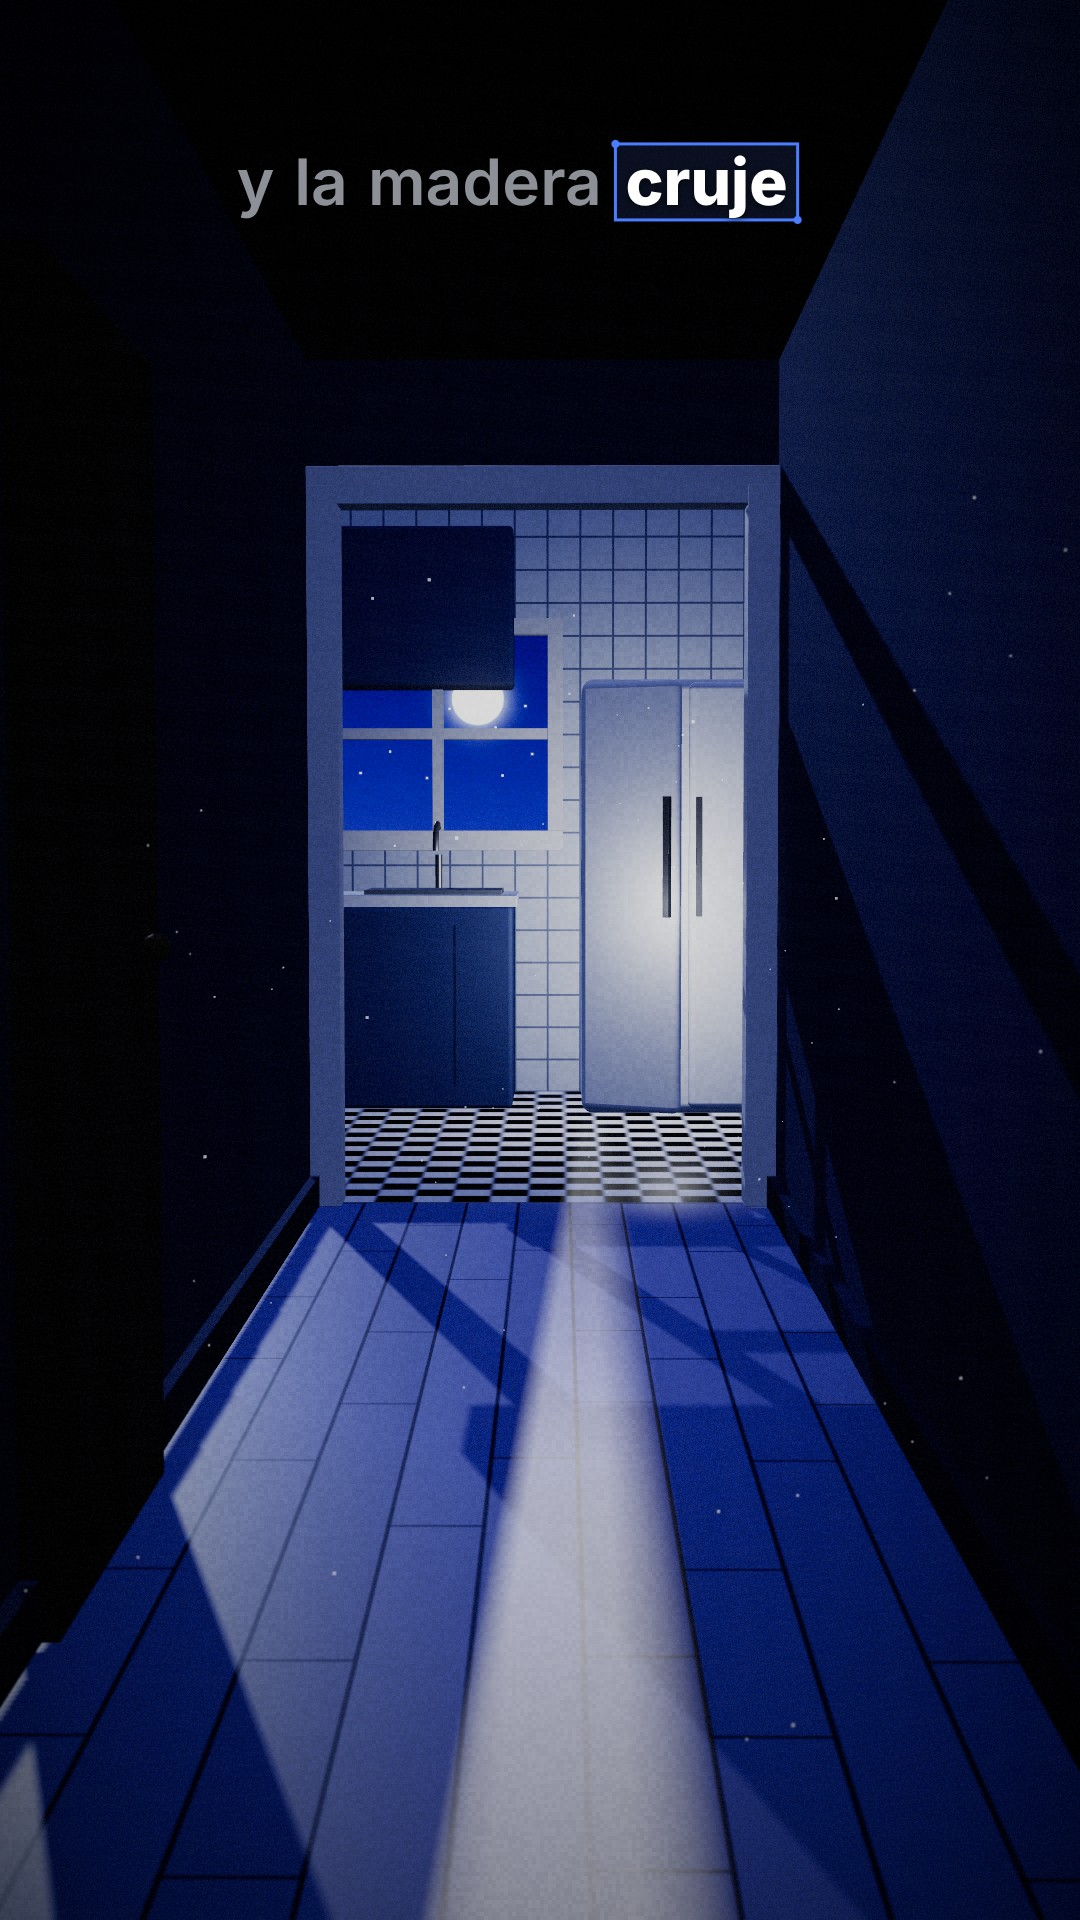
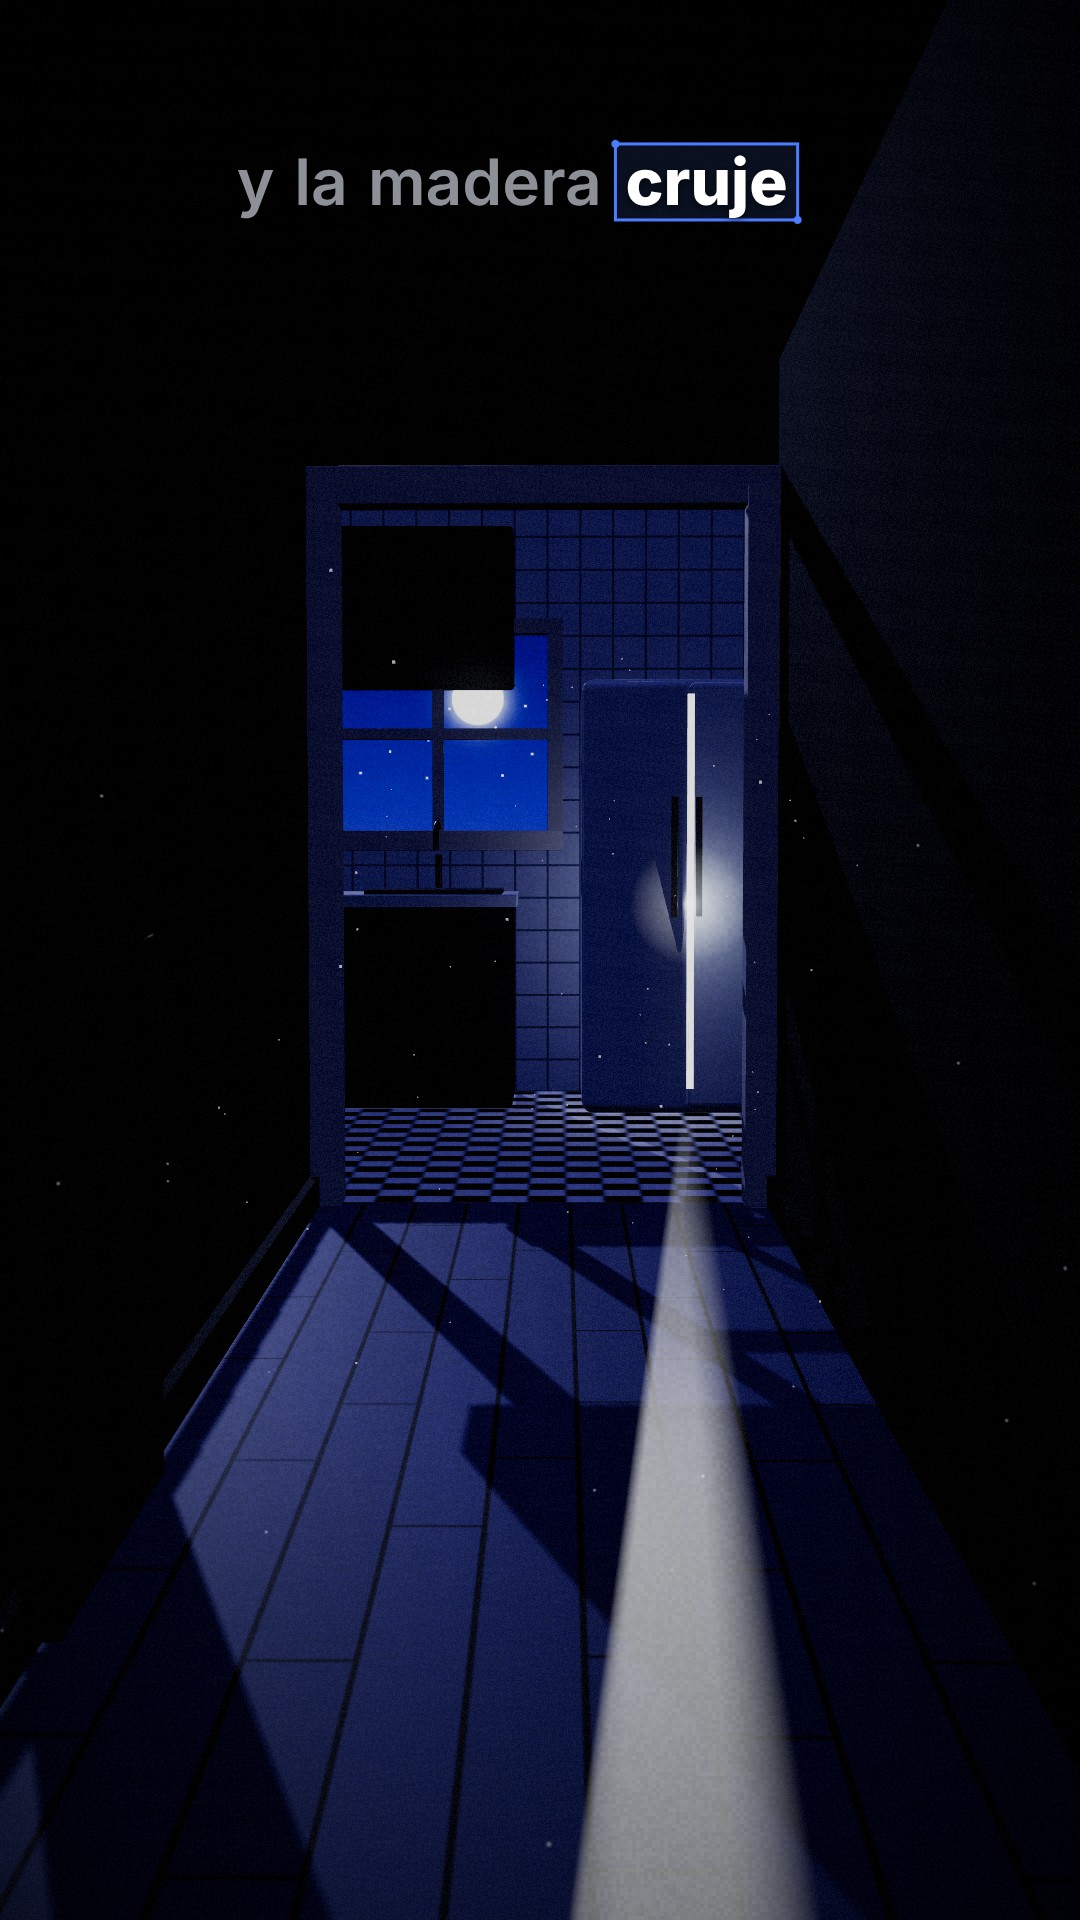
Quédate a oscuras: correcciones de fotogramas (piel, cobija, cielo con niebla, farolas de sodio, perro, rendija del refri)
Claude-Session: https://claude.ai/code/session_01NcqyoPWYYrQVxTVUuo8w3d

diff --git a/videos/historias/quedate-oscuras/scenes/comun.js b/videos/historias/quedate-oscuras/scenes/comun.js
@@ -2,6 +2,7 @@
    Todo es 3D "plastilina": cajas con bisel, colores planos, roughness alto. Se expone como window.Q. */
 (function () {
   const THREE = window.THREE, V = (x, y, z) => new THREE.Vector3(x, y, z);
+  THREE.ColorManagement.legacyMode = false; // los HEX se leen como sRGB (colores fieles a la paleta)
   const P = {
     rojoAmb: 0x7A1218, rojo: 0xE0262B, rojoGlow: 0xFF3B3B, sabana: 0xE89A93,
     noche0: 0x0B0F1C, noche1: 0x0E1424, noche2: 0x1B2440, luna: 0x6F86D6, niebla: 0x2A3350, duela0: 0x3A3F6E, duela1: 0x5A5FA0,
@@ -54,7 +55,7 @@
     const oreja = esfera(.035, piel, [.158, -.01, -.01], [.6, 1, 1]); cab.add(oreja);
     const ojos = [], negro = mat(0x0a0a0e, { roughness: .3 });
     for (const sx of [-1, 1]) { const o = esfera(.019, negro, [sx * .055, .0, .148], [1, 1.15, .45]); cab.add(o); ojos.push(o); }
-    for (const sx of [-1, 1]) { const m = new THREE.Mesh(new THREE.CircleGeometry(.03, 24), new THREE.MeshStandardMaterial({ color: 0xff5a5a, transparent: true, opacity: .45, roughness: .9 })); m.position.set(sx * .085, -.045, .135); m.lookAt(sx * .3, -.2, .6); cab.add(m); }
+    for (const sx of [-1, 1]) { const m = new THREE.Mesh(new THREE.CircleGeometry(.03, 24), new THREE.MeshStandardMaterial({ color: 0xff3a3a, transparent: true, opacity: .75, roughness: .9 })); m.position.set(sx * .085, -.045, .135); m.lookAt(sx * .3, -.2, .6); cab.add(m); }
     const boca = new THREE.Mesh(new THREE.TorusGeometry(.012, .0035, 6, 16, Math.PI), negro); boca.position.set(0, -.07, .148); boca.rotation.z = Math.PI; cab.add(boca);
     g.userData = { cab, ojos, ojo(k) { ojos.forEach(o => o.scale.y = Math.max(.08, 1.15 * k)); } };
     return g;
@@ -140,9 +141,12 @@
     g.add(caja(2.02, .24, 1.42, mat(0xb9a8a4, { roughness: .95 }), [0, .42, 0], { r: .08 }));
     const alm = caja(.5, .17, .95, mat(0xc8b4b0, { roughness: .95 }), [-.76, .62, 0], { r: .08, seg: 5 }); g.add(alm);
     // cobija acolchada inflada: una caja grande + "costuras" de cajas redondeadas encimadas
-    const cob = new THREE.Group(); g.add(cob); const mc = mat(0xb86a66, { roughness: .95 });
-    cob.add(caja(1.5, .2, 1.48, mc, [.27, .6, 0], { r: .09, seg: 5 }));
-    for (let i = 0; i < 4; i++) for (let j = 0; j < 3; j++) cob.add(caja(.35, .07, .46, mc, [-.18 + i * .36, .7, -.48 + j * .48], { r: .034, seg: 4 }));
+    const cob = new THREE.Group(); g.add(cob); const mc = mat(P.sabana, { roughness: .95 });
+    cob.add(caja(1.56, .26, 1.5, mc, [.25, .6, 0], { r: .13, seg: 6 }));
+    // pliegues: rollos alargados y suaves sobre la cobija (no cuadrícula)
+    [[.2, .12, 1.36, .45], [.55, -.06, 1.3, .36], [.85, .08, 1.2, .3]].forEach(([x, rz, largo, gr]) => { const pl = new THREE.Mesh(new THREE.CapsuleGeometry(.07 * gr / .38, largo, 8, 24), mc); pl.rotation.set(Math.PI / 2, 0, rz); pl.scale.set(1.6, 1, .55); pl.position.set(x, .72, 0); pl.castShadow = pl.receiveShadow = true; cob.add(pl); });
+    // borde doblado junto al cuello
+    const dob = new THREE.Mesh(new THREE.CapsuleGeometry(.075, 1.34, 8, 24), mat(0xF0B5AE, { roughness: .95 })); dob.rotation.x = Math.PI / 2; dob.scale.set(1.5, 1, .8); dob.position.set(-.5, .7, 0); dob.castShadow = dob.receiveShadow = true; cob.add(dob);
     g.userData = { cob, alm }; return g; }
   function ventanaCruz(o = {}) { const g = new THREE.Group(), w = o.w || 1.1, h = o.h || 1.3, mm = mat(P.hueso, { roughness: .7 }), t = .07;
     g.add(caja(w + t * 2, t, .12, mm, [0, h / 2 + t / 2, 0])); g.add(caja(w + t * 2, t * 1.3, .2, mm, [0, -h / 2 - t / 2, .04])); g.add(caja(t, h, .12, mm, [-w / 2 - t / 2, 0, 0])); g.add(caja(t, h, .12, mm, [w / 2 + t / 2, 0, 0]));
@@ -204,13 +208,13 @@
   function farola(o = {}) { const g = new THREE.Group(), negro = mat(0x0b0b0e, { roughness: .5, metalness: .4 }), h = o.h || 5;
     g.add(cil(.07, .1, h, negro, [0, h / 2, 0], 12)); const brazo = caja(.9, .07, .07, negro, [o.lado * .45, h - .05, 0]); g.add(brazo);
     const cab = caja(.45, .14, .28, negro, [o.lado * .85, h - .1, 0], { r: .05 }); g.add(cab);
-    const foco = new THREE.Mesh(new THREE.PlaneGeometry(.36, .2), brilla(P.sodio, 4, { side: THREE.DoubleSide })); foco.rotation.x = Math.PI / 2; foco.position.set(o.lado * .85, h - .175, 0); g.add(foco);
-    const hal = halo(P.sodio, 3.2, .55, [o.lado * .85, h - .3, 0]); g.add(hal);
-    const cono = conoLuz(P.sodio, h - .2, 1.9, .07); cono.position.set(o.lado * .85, h - .18, 0); g.add(cono);
+    const foco = new THREE.Mesh(new THREE.PlaneGeometry(.36, .2), brilla(P.sodio, 2.2, { side: THREE.DoubleSide })); foco.rotation.x = Math.PI / 2; foco.position.set(o.lado * .85, h - .175, 0); g.add(foco);
+    const hal = halo(P.sodio, 3.0, .38, [o.lado * .85, h - .3, 0]); g.add(hal);
+    const cono = conoLuz(P.sodio, h - .2, 1.9, .09); cono.position.set(o.lado * .85, h - .18, 0); g.add(cono);
     const sl = new THREE.SpotLight(P.sodio, o.i || 9, 14, .78, .65, 1.6); sl.position.set(o.lado * .85, h - .2, 0); sl.target.position.set(o.lado * .85, 0, 0); g.add(sl, sl.target);
-    g.userData = { foco, hal, cono, sl, k(v) { foco.material.color.set(P.sodio).multiplyScalar(4 * v); hal.material.opacity = .55 * v; cono.material.opacity = .07 * v; sl.intensity = (o.i || 9) * v; } };
+    g.userData = { foco, hal, cono, sl, k(v) { foco.material.color.set(P.sodio).multiplyScalar(2.2 * v); hal.material.opacity = .38 * v; cono.material.opacity = .09 * v; sl.intensity = (o.i || 9) * v; } };
     return g; }
-  function perro() { const g = new THREE.Group(), m = mat(0x4a3022, { roughness: .85 }), osc = mat(0x2e1d14, { roughness: .85 });
+  function perro() { const g = new THREE.Group(), m = mat(0x4a2c1c, { roughness: .85 }), osc = mat(0x2a180e, { roughness: .85 });
     const cuerpo = new THREE.Group(); g.add(cuerpo); cuerpo.add(caja(.32, .3, .7, m, [0, .5, 0], { r: .13, seg: 4 }));
     const patas = []; for (const [x, z] of [[-.1, .24], [.1, .24], [-.1, -.24], [.1, -.24]]) { const p = caja(.09, .4, .1, m, [x, .2, z], { r: .04 }); cuerpo.add(p); patas.push(p); }
     const cola = caja(.06, .06, .3, m, [0, .66, -.42], { r: .03, rot: [-.7, 0, 0] }); cuerpo.add(cola);
@@ -236,12 +240,12 @@
 
   // =============== PASILLO + COCINA ===============
   const texDuela = (k = 1) => { const t = textura(512, 1024, (x, w, h) => { x.fillStyle = '#ffffff'; x.fillRect(0, 0, w, h); const n = 6, aw = w / n; for (let i = 0; i < n; i++) { const off = (i * 397) % 600; x.fillStyle = `rgba(0,0,0,${.03 + (i % 3) * .025})`; x.fillRect(i * aw, 0, aw, h);
-      x.fillStyle = 'rgba(10,10,30,.55)'; x.fillRect(i * aw, 0, 4, h); for (let y = off % 700; y < h; y += 700) x.fillRect(i * aw, y, aw, 4); } }); t.wrapS = t.wrapT = THREE.RepeatWrapping; return t; };
+      x.fillStyle = 'rgba(6,6,18,.9)'; x.fillRect(i * aw, 0, 5, h); for (let y = off % 700; y < h; y += 700) x.fillRect(i * aw, y, aw, 5); } }); t.wrapS = t.wrapT = THREE.RepeatWrapping; return t; };
   const texAzulejo = () => { const t = textura(256, 256, (x, w, h) => { x.fillStyle = '#e9edf2'; x.fillRect(0, 0, w, h); x.fillStyle = '#9aa3b4'; for (let i = 0; i <= 4; i++) { x.fillRect(i * 64 - 2, 0, 4, h); x.fillRect(0, i * 64 - 2, w, 4); } }); t.wrapS = t.wrapT = THREE.RepeatWrapping; return t; };
   const texAjedrez = () => { const t = textura(256, 256, (x) => { for (let i = 0; i < 4; i++) for (let j = 0; j < 4; j++) { x.fillStyle = (i + j) % 2 ? '#15161c' : '#e8e8ec'; x.fillRect(i * 64, j * 64, 64, 64); } }); t.wrapS = t.wrapT = THREE.RepeatWrapping; t.magFilter = THREE.NearestFilter; return t; };
   /* Pasillo a lo largo de -z: desde la puerta de la recámara (z=+3) hasta la cocina (z<-3). Refri al fondo a la derecha, mirando +z, puerta izquierda entreabierta. */
   function pasillo(o = {}) {
-    const g = new THREE.Group(), AW = 1.5, LZ0 = 3.2, LZ1 = -3.0, pared = mat(0x161c33, { roughness: .9 }), madera = mat(0x5a5fa0, { roughness: .45, metalness: .0 });
+    const g = new THREE.Group(), AW = 1.5, LZ0 = 3.2, LZ1 = -3.0, pared = mat(0x161c33, { roughness: .9 }), madera = mat(0x7d7f9c, { roughness: .65, metalness: .0 });
     const td = texDuela(); td.repeat.set(1.5, 3); madera.map = td;
     const piso = new THREE.Mesh(new THREE.PlaneGeometry(AW, LZ0 - LZ1), madera); piso.rotation.x = -Math.PI / 2; piso.position.z = (LZ0 + LZ1) / 2; piso.receiveShadow = true; g.add(piso);
     for (const s of [-1, 1]) { const p = new THREE.Mesh(new THREE.PlaneGeometry(LZ0 - LZ1, 2.7), pared); p.rotation.y = -s * Math.PI / 2; p.position.set(s * AW / 2, 1.35, (LZ0 + LZ1) / 2); p.receiveShadow = true; g.add(p);
@@ -275,18 +279,19 @@
     const rf = new THREE.Group(); rf.position.set(.6, 0, LZ1 - KD + .45); g.add(rf); const blanco = mat(0xd6dbe3, { roughness: .4 });
     rf.add(caja(.9, 1.85, .7, blanco, [0, .925, 0], { r: .05 })); const interior = new THREE.Mesh(new THREE.PlaneGeometry(.84, 1.7), brilla(P.refri, 2.6)); interior.position.set(0, .95, .3); rf.add(interior);
     const pD = caja(.44, 1.8, .07, blanco, [.22, .93, .385], { r: .03 }); rf.add(pD); rf.add(caja(.025, .5, .04, metal, [.04, 1.1, .44]));
-    const piv = new THREE.Group(); piv.position.set(-.44, 0, .37); rf.add(piv); const pI = caja(.44, 1.8, .07, blanco, [.22, .93, .015], { r: .03 }); piv.add(pI); piv.add(caja(.025, .5, .04, metal, [.4, 1.1, .065])); piv.rotation.y = -.42;
+    const piv = new THREE.Group(); piv.position.set(-.44, 0, .37); rf.add(piv); const pI = caja(.44, 1.8, .07, blanco, [.22, .93, .015], { r: .03 }); piv.add(pI); piv.add(caja(.025, .5, .04, metal, [.4, 1.1, .065])); piv.rotation.y = -.23;
     const sl = new THREE.SpotLight(P.refri, 0, 10, .085, .6, 1.2); sl.position.set(-.38, .95, .5); sl.target.position.set(-.75, 0, 6.5); luzSombra(sl, 1024); rf.add(sl, sl.target);
-    const pl2 = new THREE.PointLight(P.refri, 1.6, 2.5, 2); pl2.position.set(-.1, .9, .7); rf.add(pl2);
+    const rend = new THREE.Mesh(new THREE.PlaneGeometry(.03, 1.66), brilla(P.refri, 3.2)); rend.position.set(.005, .95, .44); rf.add(rend); rf.add(halo(P.refri, .5, .5, [.0, .9, .5]));
+    const pl2 = new THREE.PointLight(P.refri, .9, 1.6, 2); pl2.position.set(.0, .9, .5); rf.add(pl2);
     // franja de luz sobre el piso (trapecio con degradado), del refri hacia la cámara
     const texF = textura(64, 512, (x, w, h) => { const gg = x.createLinearGradient(0, 0, 0, h); gg.addColorStop(0, 'rgba(255,255,255,0)'); gg.addColorStop(.5, 'rgba(255,255,255,.35)'); gg.addColorStop(1, 'rgba(255,255,255,1)'); x.fillStyle = gg; x.fillRect(0, 0, w, h);
       const s = x.createLinearGradient(0, 0, w, 0); s.addColorStop(0, 'rgba(0,0,0,1)'); s.addColorStop(.3, 'rgba(0,0,0,0)'); s.addColorStop(.7, 'rgba(0,0,0,0)'); s.addColorStop(1, 'rgba(0,0,0,1)'); x.globalCompositeOperation = 'destination-out'; x.fillStyle = s; x.fillRect(0, 0, w, h); });
-    const fg = new THREE.BufferGeometry(); const zA = LZ1 - KD + .9, zB = LZ0 - .2, xA = .6 - .44 + .02, xB = .05;
-    fg.setAttribute('position', new THREE.Float32BufferAttribute([xA - .06, .006, zA, xA + .1, .006, zA, xB - .2, .006, zB, xB + .2, .006, zB], 3)); fg.setAttribute('uv', new THREE.Float32BufferAttribute([0, 1, 1, 1, 0, 0, 1, 0], 2)); fg.setIndex([0, 2, 1, 1, 2, 3]);
+    const fg = new THREE.BufferGeometry(); const zA = LZ1 - KD + .86, zB = LZ0 - .2, xA = .6, xB = .12;
+    fg.setAttribute('position', new THREE.Float32BufferAttribute([xA - .04, .006, zA, xA + .04, .006, zA, xB - .16, .006, zB, xB + .16, .006, zB], 3)); fg.setAttribute('uv', new THREE.Float32BufferAttribute([0, 1, 1, 1, 0, 0, 1, 0], 2)); fg.setIndex([0, 2, 1, 1, 2, 3]);
     const franja = new THREE.Mesh(fg, new THREE.MeshBasicMaterial({ color: new THREE.Color(P.refri).multiplyScalar(1.8), map: texF, transparent: true, opacity: .9, blending: THREE.AdditiveBlending, depthWrite: false, fog: false })); g.add(franja);
     // luz de luna rasante desde la ventana de la cocina
-    const luna = new THREE.DirectionalLight(P.luna, .38); luna.position.set(-2.5, 3.2, LZ1 - KD - 2); luna.target.position.set(.3, 0, 1.5); luzSombra(luna, 2048, 5); g.add(luna, luna.target);
-    const amb = new THREE.HemisphereLight(0x2a3570, 0x0b0f1c, .9); g.add(amb);
+    const luna = new THREE.DirectionalLight(0xa3abd0, .5); luna.position.set(-2.5, 3.2, LZ1 - KD - 2); luna.target.position.set(.3, 0, 1.5); luzSombra(luna, 2048, 5); g.add(luna, luna.target);
+    const amb = new THREE.HemisphereLight(0x5a5f90, 0x1a1d33, .9); g.add(amb);
     // marco de la puerta de la recámara (primer plano) y la puerta abierta con manija dorada
     g.add(caja(.12, 2.4, .16, hueso, [-AW / 2 + .02, 1.2, LZ0])); g.add(caja(.12, 2.4, .16, hueso, [AW / 2 - .02, 1.2, LZ0])); g.add(caja(AW + .1, .12, .16, hueso, [0, 2.4, LZ0]));
     const pu = new THREE.Group(); pu.position.set(-AW / 2 + .06, 0, LZ0 + .05); g.add(pu); pu.add(caja(.85, 2.25, .05, mat(0x2A1E18, { roughness: .6 }), [-.43, 1.13, 0])); pu.rotation.y = 1.25;

diff --git a/videos/historias/quedate-oscuras/scenes/escenas.js b/videos/historias/quedate-oscuras/scenes/escenas.js
@@ -7,9 +7,9 @@
 
   // ---------- luz roja de alerta para la recámara ----------
   function luzRoja(Q, s, k = 1) {
-    const hemi = new THREE.HemisphereLight(0xff3b3b, 0x1a0204, .18 * k); s.add(hemi);
-    const amb = new THREE.AmbientLight(Q.P.rojoAmb, .35 * k); s.add(amb);
-    const vent = new THREE.SpotLight(Q.P.rojo, 3.2 * k, 9, .9, .8, 1.4); vent.position.set(.9, 2.2, -2.2); vent.target.position.set(-.6, .5, .4); Q.luzSombra(vent, 2048); s.add(vent, vent.target);
+    const hemi = new THREE.HemisphereLight(0xffa49a, 0x2a0608, .2 * k); s.add(hemi);
+    const amb = new THREE.AmbientLight(Q.P.rojoAmb, .2 * k); s.add(amb);
+    const vent = new THREE.SpotLight(0xff6a5c, 1.5 * k, 9, .9, .8, 1.4); vent.position.set(.9, 2.2, -2.2); vent.target.position.set(-.6, .5, .4); Q.luzSombra(vent, 2048); s.add(vent, vent.target);
     return { hemi, amb, vent };
   }
 
@@ -17,37 +17,41 @@
   S[0] = (Q) => {
     const s = Q.escena({ fondo: 0x1a0306, niebla: .015, nieblaColor: 0x3a0a0e });
     const rc = Q.recamara({ pared: 0x3a0d12 }); s.add(rc); const L = luzRoja(Q, s);
-    const yo = Q.personaje(); yo.position.set(-.93, .83, -.1); yo.rotation.set(0, .3, 1.5); s.add(yo);
-    const cel = Q.celular({ luz: 2.2 }); cel.scale.setScalar(1.5); cel.position.set(-.38, .75, .14); cel.rotation.set(-Math.PI / 2 + .12, 0, -.5); s.add(cel);
+    const yo = Q.personaje(); yo.position.set(-.93, .83, -.1); yo.rotation.set(0, 1.0, 1.3); s.add(yo);
+    const cel = Q.celular({ luz: 1.0, color: 0xff5a4c, brillo: 2.1 }); cel.scale.setScalar(1.5); cel.rotation.set(-Math.PI / 2 + .1, 0, 0); const celG = new THREE.Group(); celG.add(cel); celG.position.set(-.42, .752, .1); celG.rotation.y = Math.PI / 2 - .55; s.add(celG);
     const pol = Q.polvo(160, [3, 2.4, 2.5], 0xff9a9a, .01); pol.position.set(-.5, .3, 0); s.add(pol);
     return { scene: s,
-      cam: [[.7, 1.62, .78], [-.7, .76, -.04], 36], cam2: [[.4, 1.45, .6], [-.68, .77, -.02], 36],
-      anima(tl, tg) { cel.userData.pinta(x => Q.pantallaA(x, tl)); const vib = (Math.floor(tl * 4) % 2 === 0) ? 1 : 0; cel.position.x = -.42 + Math.sin(tl * 2 * Math.PI * 20) * .002 * vib; cel.position.z = .12 + Math.cos(tl * 2 * Math.PI * 20) * .0015 * vib;
+      cam: [[.55, 1.9, .9], [-.8, .86, -.06], 36], cam2: [[.2, 1.6, .62], [-.7, .86, -.02], 36],
+      anima(tl, tg) { cel.userData.pinta(x => Q.pantallaA(x, tl)); const vib = (Math.floor(tl * 4) % 2 === 0) ? 1 : 0; cel.position.x = Math.sin(tl * 2 * Math.PI * 20) * .002 * vib; cel.position.z = Math.cos(tl * 2 * Math.PI * 20) * .0015 * vib;
         // parpadeo lento al abrir los ojos (6 cuadros) cerca de 1.2 s
         const a = clamp((tl - 1.1) / .2); yo.userData.ojo(tl < 1.1 ? .08 : a); Q.moverPolvo(pol, tg); },
-      post: { ap: .05, bloom: 1.0 }, ca: .0015,
+      post: { ap: .05, bloom: 1.25, umbral: .7 }, ca: .0015,
       sacudida: (tl) => tl < 4 / 30 ? 1 : 0 };
   };
 
   // ===== ESCENA 7 — La ciudad muerta =====
   function calleNoche(Q, o = {}) {
-    const s = Q.escena({ fondo: 0x0d1222, niebla: o.niebla || .045, nieblaColor: 0x1c2340 });
+    const NB = o.nieblaColor || 0x2A3350, s = Q.escena({ fondo: NB, niebla: o.niebla || .03, nieblaColor: NB });
     const c = Q.calle({ semilla: 11 }); s.add(c);
-    const luna = new THREE.DirectionalLight(Q.P.luna, .3); luna.position.set(-20, 40, -30); s.add(luna);
-    s.add(new THREE.HemisphereLight(0x3a4a8a, 0x0b0f1c, .12));
-    const cg = Q.textura(4, 256, (x, w, h) => { const g = x.createLinearGradient(0, 0, 0, h); g.addColorStop(0, '#0e1328'); g.addColorStop(.55, '#1a2140'); g.addColorStop(1, '#262f52'); x.fillStyle = g; x.fillRect(0, 0, w, h); }); cg.encoding = THREE.LinearEncoding; s.background = cg;
+    // domo de cielo que SÍ recibe niebla: #2A3350 en el horizonte → #0B0F1C arriba
+    const dg = new THREE.SphereGeometry(60, 32, 16), col = [], cH = new THREE.Color(o.horizonte || 0x2A3350), cT = new THREE.Color(o.cenit || 0x0B0F1C);
+    for (let i = 0; i < dg.attributes.position.count; i++) { const y = dg.attributes.position.getY(i) / 60; const cc = cH.clone().lerp(cT, Math.min(1, Math.max(0, y * 1.6))); col.push(cc.r, cc.g, cc.b); }
+    dg.setAttribute('color', new THREE.Float32BufferAttribute(col, 3)); const domo = new THREE.Mesh(dg, new THREE.MeshBasicMaterial({ vertexColors: true, side: THREE.BackSide, fog: true, depthWrite: false, depthTest: false }));
+    domo.renderOrder = -10; domo.position.set(0, 0, -10); s.add(domo);
+    const luna = new THREE.DirectionalLight(Q.P.luna, .5); luna.position.set(-20, 40, -30); s.add(luna);
+    s.add(new THREE.HemisphereLight(0x3a4a8a, 0x0b0f1c, .25));
     // ventanas: unas cálidas con cortina, unas azules de TV, la mayoría negras
-    const cal = new THREE.Color(Q.P.ventCalida).multiplyScalar(2.2), cal2 = new THREE.Color(Q.P.ventCalida2).multiplyScalar(1.6), tv = new THREE.Color(0x7D8FD0).multiplyScalar(1.5);
+    const cal = new THREE.Color(Q.P.ventCalida).multiplyScalar(1.6), cal2 = new THREE.Color(Q.P.ventCalida2).multiplyScalar(1.2), tv = new THREE.Color(0x7D8FD0).multiplyScalar(1.1);
     let sem = 5; const r = () => { sem = (sem * 16807) % 2147483647; return sem / 2147483647; };
-    for (const h of [c.userData.L, c.userData.R]) h.userData.ventanas.forEach(v => { const q = r(); if (q < .09) Q.colorVentana(h, v.i, cal); else if (q < .13) Q.colorVentana(h, v.i, cal2); else if (q < .17) Q.colorVentana(h, v.i, tv); });
+    for (const h of [c.userData.L, c.userData.R]) h.userData.ventanas.forEach(v => { const q = r(); if (q < .13) Q.colorVentana(h, v.i, cal); else if (q < .18) Q.colorVentana(h, v.i, cal2); else if (q < .22) Q.colorVentana(h, v.i, tv); });
     const autos = [[2.0, -4.5, 0x3b4458, 0], [2.0, -12.5, 0x464d5e, 0], [-2.0, -16, 0x343c50, Math.PI]].map(([x, z, col, ry]) => { const a = Q.auto(col); a.position.set(x, 0, z); a.rotation.y = ry; s.add(a); return a; });
-    const fs = [[3.55, -4.5, -1], [-3.55, -17, 1], [3.55, -30, -1], [-3.55, -43, 1]].map(([x, z, l]) => { const f = Q.farola({ lado: l, i: 10 }); f.position.set(x, 0, z); s.add(f); return f; });
-    const dog = Q.perro(); dog.position.set(2.5, .16, -1.2); dog.rotation.y = -.45; s.add(dog);
+    const fs = [[3.55, -4.5, -1], [-3.55, -17, 1], [3.55, -30, -1], [-3.55, -43, 1]].map(([x, z, l]) => { const f = Q.farola({ lado: l, i: 6 }); f.position.set(x, 0, z); s.add(f); return f; });
+    const dog = Q.perro(); dog.scale.setScalar(1.25); dog.position.set(3.05, .16, -2.6); dog.rotation.y = -Math.PI / 2 + .25; s.add(dog);
     return { s, c, autos, fs, dog };
   }
   S[6] = (Q) => {
     const C = calleNoche(Q);
-    return { scene: C.s, cam: [[.8, 1.3, 7.5], [1.0, 2.6, -30], 50], cam2: [[.78, 1.3, 7.0], [1.0, 2.6, -30], 50],
+    return { scene: C.s, cam: [[1.25, 1.3, 7.5], [1.2, 2.6, -30], 50], cam2: [[1.22, 1.3, 7.0], [1.2, 2.6, -30], 50],
       anima(tl) { // la farola de enfrente parpadea dos veces y se queda prendida
         const f = C.fs[0], p = (tl > .5 && tl < .62) || (tl > .8 && tl < .9) ? .15 : 1; f.userData.k(p); },
       post: { ap: .02, bloom: .9 } };
